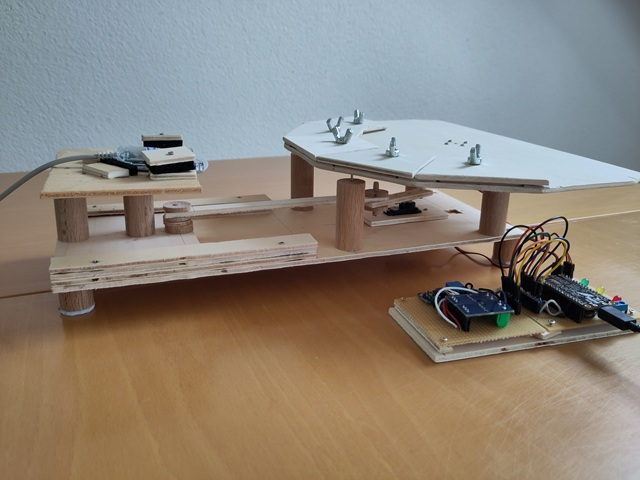
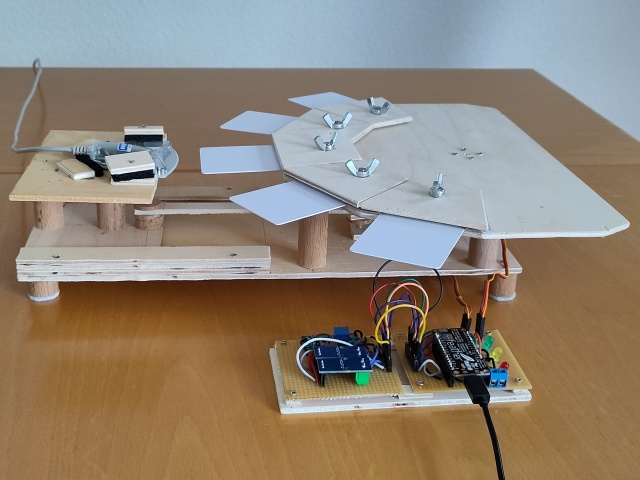
Changes in instructions.

diff --git a/Instructable/Instructable.md b/Instructable/Instructable.md
@@ -2,9 +2,11 @@
 
 ## Introduction
 
+[Vimeo](https://vimeo.com/1132590118?fl=pl&fe=sh)
+
 [Youtube](https://youtu.be/RYG996cEZuI)
 
-The Smart Card Changer enables remote access to up to five smart cards, such as access or bank cards, using a single smart card reader. Via a Bluetooth connection, you can conveniently insert or eject cards with your smartphone. The smart card changer is especially useful when the reader is connected to a PC that is out of reach.
+The Smart Card Changer gives remote access to up to five smart cards, such as access or bank cards, using a single smart card reader. Via a Bluetooth connection, you can conveniently insert or eject cards with your smartphone. The smart card changer is especially useful when the reader is connected to a PC that is out of reach.
 
 The smart card changer has three components:
 
@@ -261,7 +263,7 @@ Choose "l" for *longitudinal servo* and position the carriage to fully retracted
 
 The calculated polynomial coefficients  (polynomial of 3 degree)
 
-| polynomial degree | servo |
+| polynomial degree | coefficient |
 | ---- | ----- |
 | 0    | 9.5199345532256200e+002   |
 | 1    | 1.5448059970614935e+001   |
@@ -276,7 +278,7 @@ For the rotational axis we cannot overlook the mechanical play (backlash).
 Choose "r" for *rotation servo*. Calibrate the card slots in clockwise and counter clockwise direction. Write down the position values for each step. The backlash is the ccw position minus the cw position.
 
 
-| degrees   | coefficient |
+| degrees   | servo |
 | ---- | ----- |
 | 30    | 1105   |
 | 60    | 1270   |
